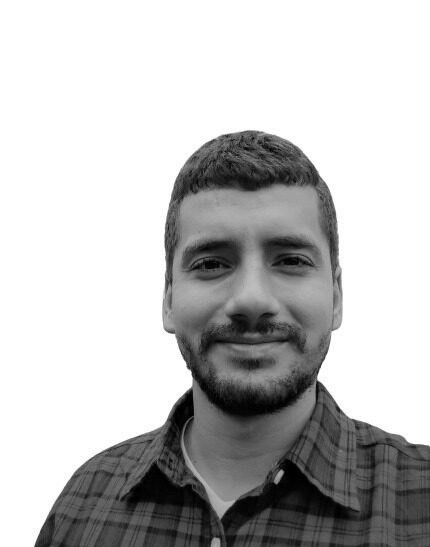
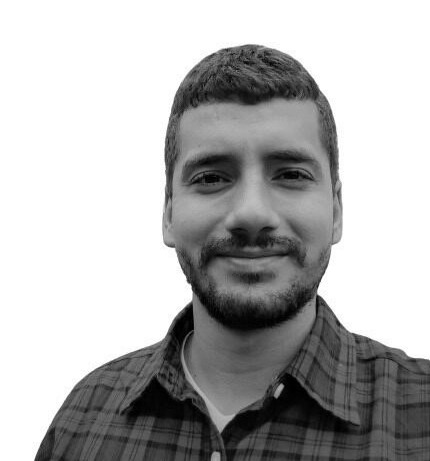
cambiar estilo en foto y roughnotation

Changed region(s): [[0.0907, 0.0911, 1.0, 1.0]]

diff --git a/components/About.jsx b/components/About.jsx
@@ -8,56 +8,57 @@ const About = () => {
   const colors = ["#F59E0B", "#84CC16", "#10B981", "#3B82F6"];
   return (
     <div className="container px-4 mx-auto">
-      <div className="lg:space-x-5 lg:flex lg:flex-row item-center lg:-mx-4 flex flex-col-reverse text-center lg:text-left">
-        <div className="lg:px-4 lg:mt-12 ">
-          <h1 className="text-2xl font-bold text-gray-900 lg:text-5xl dark:text-white">
-            Hola!,
-          </h1>
-          <div className="mt-6 text-gray-800 dark:text-white">
-            <p className="mb-4">
-              Soy un{" "}
-              <RoughNotationGroup show={true}>
-                <RainbowHighlight color={colors[0]}>
+      <RoughNotationGroup show={true}>
+        <div className="lg:space-x-5 lg:flex lg:flex-row item-center lg:-mx-4 flex flex-col-reverse text-center lg:text-left">
+          <div className="lg:px-4 lg:mt-12 ">
+            <h1 className="text-xl font-bold text-gray-900 lg:text-3xl dark:text-white">
+              Hola!, mi nombre es{" "}
+              <RainbowHighlight color={colors[3]} type={"underline"}>
+                {" "}
+                Juan David{" "}
+              </RainbowHighlight>
+            </h1>
+            <div className="mt-6 text-gray-800 dark:text-white">
+              <p className="mb-4">
+                Soy un{" "}
+                <RainbowHighlight color={colors[0]} type={"highlight"}>
                   {" "}
                   Ingeniero{" "}
                 </RainbowHighlight>
-              </RoughNotationGroup>{" "}
-              orientado a la calidad. Soy una persona positiva,
-              <RoughNotationGroup show={true}>
-                <RainbowHighlight color={colors[1]}>proactiva</RainbowHighlight>
-              </RoughNotationGroup>
-              , comprometida y responsable. Tengo conocimientos en biotecnología
-              y en{" "}
-              <RoughNotationGroup show={true}>
-                <RainbowHighlight color={colors[3]}>
+                orientado a la calidad. Soy una persona positiva,
+                <RainbowHighlight color={colors[1]} type={"highlight"}>
+                  proactiva
+                </RainbowHighlight>
+                , comprometida y responsable. Tengo conocimientos en
+                biotecnología y en{" "}
+                <RainbowHighlight color={colors[3]} type={"highlight"}>
                   desarrollo web
                 </RainbowHighlight>
-              </RoughNotationGroup>
-              , me apasiona el manejo de herramientas tecnológicas que permitan
-              aprovechar la eficiencia en el manejo de la información. Mi
-              objetivo profesional esta enfocado en integrarme en un{" "}
-              <RoughNotationGroup show={true}>
-                <RainbowHighlight color={colors[0]}>
+                , me apasiona el manejo de herramientas tecnológicas que
+                permitan aprovechar la eficiencia en el manejo de la
+                información. Mi objetivo profesional esta enfocado en integrarme
+                en un{" "}
+                <RainbowHighlight color={colors[0]} type={"highlight"}>
                   equipo de trabajo
                 </RainbowHighlight>
-              </RoughNotationGroup>
-              , donde pueda aportar desde mi formación y que me permita crecer
-              profesionalmente.
-            </p>
+                , donde pueda aportar desde mi formación y que me permita crecer
+                profesionalmente.
+              </p>
+            </div>
+          </div>
+          <div className="flex-shrink-0 lg:mt-12 lg:px-4 mb-10">
+            <Image
+              src={profile}
+              alt="Profile"
+              priority={true}
+              className="rounded-full"
+              width={180}
+              height={200}
+              placeholder="blur"
+            />
           </div>
         </div>
-        <div className="flex-shrink-0 lg:mt-12 lg:px-4 mb-10">
-          <Image
-            src={profile}
-            alt="Profile"
-            priority={true}
-            className="rounded-full"
-            width={200}
-            height={250}
-            placeholder="blur"
-          />
-        </div>
-      </div>
+      </RoughNotationGroup>
     </div>
   );
 };

diff --git a/components/RainbowHighlight.jsx b/components/RainbowHighlight.jsx
@@ -1,12 +1,12 @@
 import React from "react";
 import { RoughNotation } from "react-rough-notation";
 
-export const RainbowHighlight = ({ color, children }) => {
-  const animationDuration = Math.floor(50 * children.length);
+export const RainbowHighlight = ({ color, type, children }) => {
+  const animationDuration = Math.floor(70 * children.length);
 
   return (
     <RoughNotation
-      type="highlight"
+      type={type}
       multiline={true}
       padding={[0, 1]}
       iterations={1}
